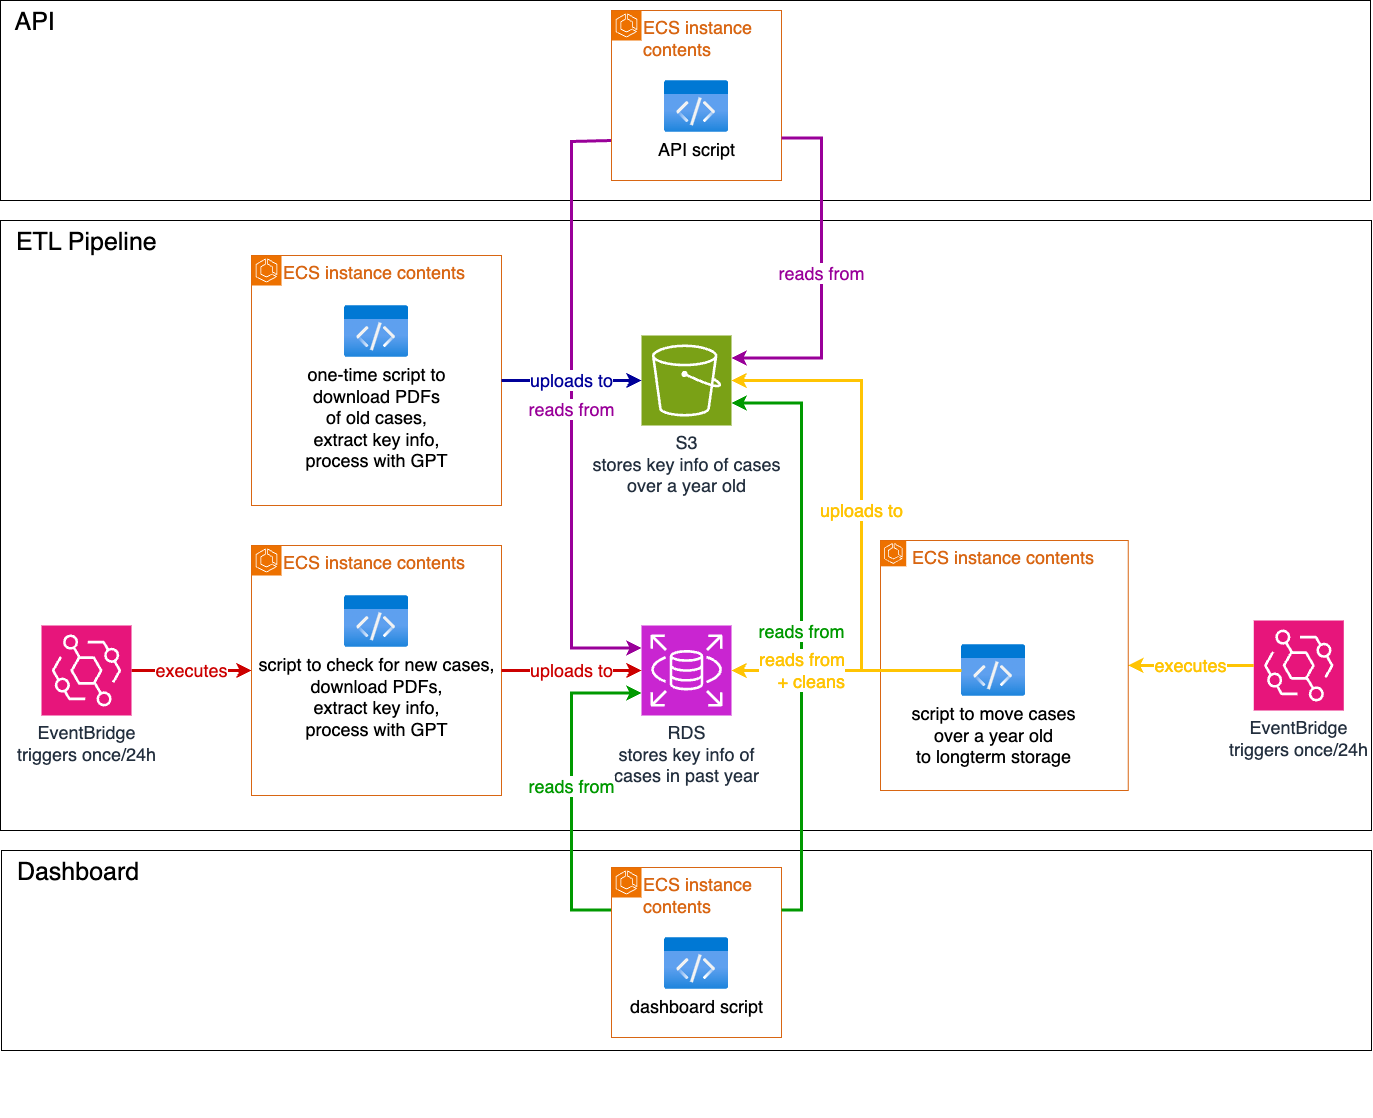
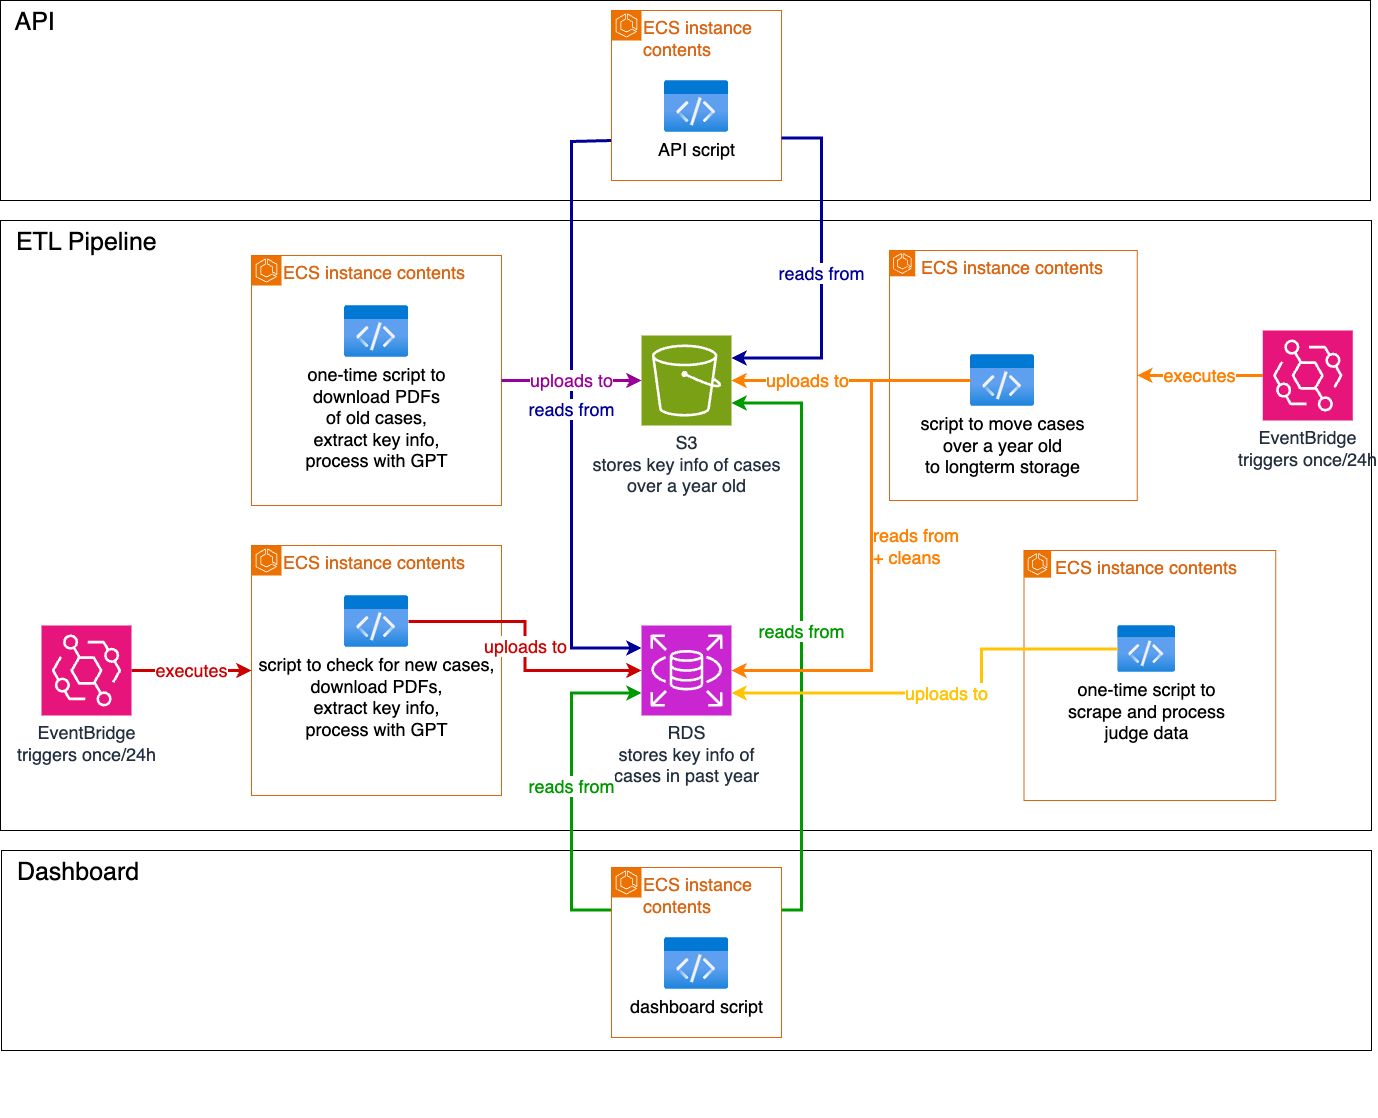
updated architecture diagrams

diff --git a/README.md b/README.md
@@ -180,9 +180,12 @@ This will include all the env files and both AWS Access and Security Keys
 ### Architecture Diagram 
 
 #### Minimum Viable Product
-![Architecture Basic](https://github.com/MahinRahman8901/c10-Court-Transcript/blob/main/pics/Architecture_basic.png?raw=true)
+![Architecture MVP](https://github.com/MahinRahman8901/c10-Court-Transcript/blob/main/pics/Architecture_MVP.png?raw=true)
 
-#### Stretch Goals
+#### Stretched Goal
+![Architecture stretched](https://github.com/MahinRahman8901/c10-Court-Transcript/blob/main/pics/Architecture_stretched.png?raw=true)
+
+#### Above and Beyond
 ![Architecture AnB](https://github.com/MahinRahman8901/c10-Court-Transcript/blob/main/pics/Architecture_AnB.png?raw=true)
 
 
